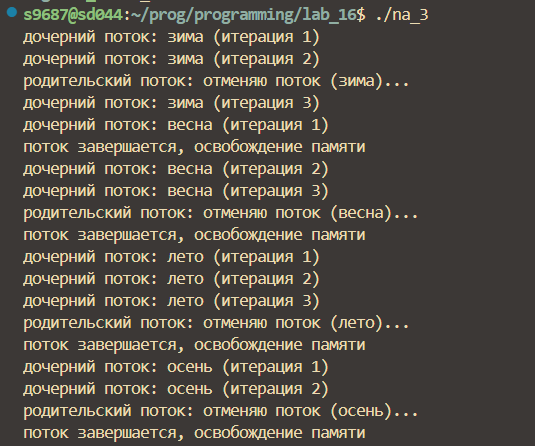
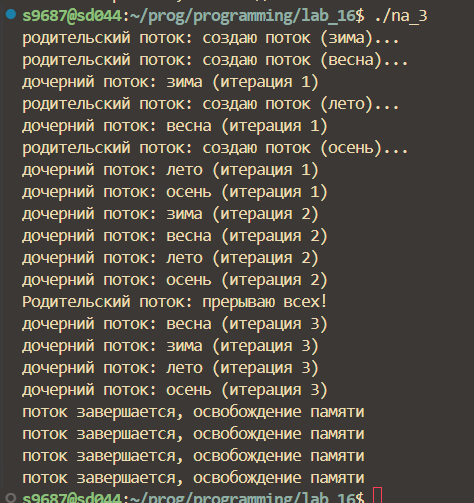
правки на 3

diff --git a/lab_16/na_3.c b/lab_16/na_3.c
@@ -3,13 +3,17 @@
 #include <pthread.h>
 #include <unistd.h>
 
+pthread_mutex_t mutex = PTHREAD_MUTEX_INITIALIZER;
+
 void cleanup_handler(void *arg) {
     printf("поток завершается, освобождение памяти\n");
 }
 
 void *pthread_work(){
     for (int i = 0; i<5;i++){
+        pthread_mutex_lock(&mutex);
         printf("дочерний поток: %d\n",i+1);
+        pthread_mutex_unlock(&mutex);
     }
     return NULL;
 }
@@ -25,6 +29,15 @@ void *pthread_print_msg(void* arg){
     return NULL;
 }
 
+void*sleepsort(void* arg){
+    int value = *(int*)arg;
+
+    sleep(value);
+
+    printf("%d\n",value);
+    fflush(stdout);return NULL;
+}
+
 int main(){
 
     // pthread_t tid;
@@ -34,13 +47,44 @@ int main(){
     //     printf("родительский поток: %d\n",i + 1);
     // }
 
-    pthread_t tid;
-    char* msg[4] = {"зима", "весна","лето","осень"};
-    for (int i = 0; i < 4;i++){
-        pthread_create(&tid,NULL,pthread_print_msg,msg[i]);
-        sleep(2);
-        printf("родительский поток: отменяю поток (%s)...\n",msg[i]);
-        pthread_cancel(tid);
+    // pthread_t tid[4];
+    // char* msg[4] = {"зима", "весна","лето","осень"};
+    // for (int i = 0; i < 4;i++){
+    //     pthread_create(&tid[i],NULL,pthread_print_msg,msg[i]);    
+    // }
+    // for (int i = 0; i < 4; i++) {
+    //     sleep(2);
+    //     printf("родительский поток: отменяю поток (%s)...\n",msg[i]);
+    //     pthread_cancel(tid[i]);
+    //     pthread_join(tid[i], NULL);
+    // }
+
+    int n = 10;
+    int arr[n];
+    for (int i = n; i > 0;i--){
+        arr[i-1]=i;
     }
-    pthread_join(tid, NULL);
+    pthread_t tids[n];
+
+    printf("Начинаем сортировку ...\n");
+
+    for (int i = 0; i < n; i++) {
+        pthread_create(&tids[i], NULL, sleepsort, &arr[i]);
+    }
+    for (int i = 0; i < n; i++) {
+        pthread_join(tids[i], NULL);
+    }
+    
+    // pthread_t tid[4];
+    // char* msg[4] = {"зима", "весна","лето","осень"};
+    // for (int i = 0; i < 4;i++){
+    //     printf("родительский поток: создаю поток (%s)...\n",msg[i]);
+    //     pthread_create(&tid[i],NULL,pthread_print_msg,msg[i]);    
+    // }
+    // sleep(2);
+    // printf("Родительский поток: прерываю всех!\n");
+    // for (int i = 0; i < 4; i++) {
+    //     pthread_cancel(tid[i]);
+    //     pthread_join(tid[i], NULL);
+    // }
 }

diff --git a/lab_16/отчет.md b/lab_16/отчет.md
@@ -38,12 +38,18 @@ void *pthread_print_msg(void* arg){
 помощью pthread_cancel().
 
 ```c
+pthread_t tid[4];
+char* msg[4] = {"зима", "весна","лето","осень"};
 for (int i = 0; i < 4;i++){
-        pthread_create(&tid,NULL,pthread_print_msg,msg[i]);
-        sleep(2);
-        printf("родительский поток: отменяю поток (%s)...\n",msg[i]);
-        pthread_cancel(tid);
-    }
+    printf("родительский поток: создаю поток (%s)...\n",msg[i]);
+    pthread_create(&tid[i],NULL,pthread_print_msg,msg[i]);    
+}
+sleep(2);
+printf("Родительский поток: прерываю всех!\n");
+for (int i = 0; i < 4; i++) {
+    pthread_cancel(tid[i]);
+    pthread_join(tid[i], NULL);
+}
 ```
 5. Обработать завершение потока
 
@@ -71,3 +77,36 @@ void *pthread_print_msg(void* arg){
 ```
 
 ![alt text](img/3.png)
+
+6. Реализация простой Sleepsor
+
+```c
+void*sleepsort(void* arg){
+    int value = *(int*)arg;
+
+    sleep(value);
+
+    printf("%d\n",value);
+    fflush(stdout);return NULL;
+}
+
+int main() {
+    int n = 10;
+    int arr[n];
+    for (int i = n; i > 0;i--){
+        arr[i-1]=i;
+    }
+    pthread_t tids[n];
+
+    printf("Начинаем сортировку ...\n");
+
+    for (int i = 0; i < n; i++) {
+        pthread_create(&tids[i], NULL, sleepsort, &arr[i]);
+    }
+    for (int i = 0; i < n; i++) {
+        pthread_join(tids[i], NULL);
+    }
+}
+```
+
+## задание на 4
